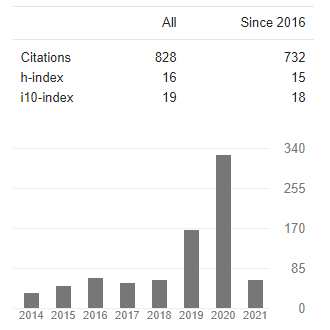
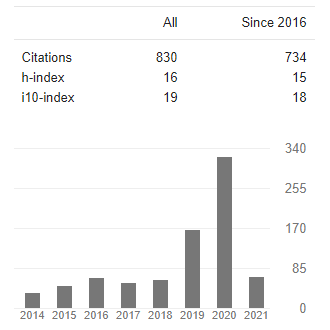
update_date_04_01_2021_timestamp_12_08_00_AM

diff --git a/research.html b/research.html
@@ -23,7 +23,7 @@
 		</strong>
     </blockquote> 
 	<br/>
-    My Google Scholar Snapshot <b>(March 2021)</b>
+    My Google Scholar Snapshot <b>(April 2021)</b>
 	<br/>
 	<br/>
 	<img src="images/scholarstat.png" width="305" height="295" >
